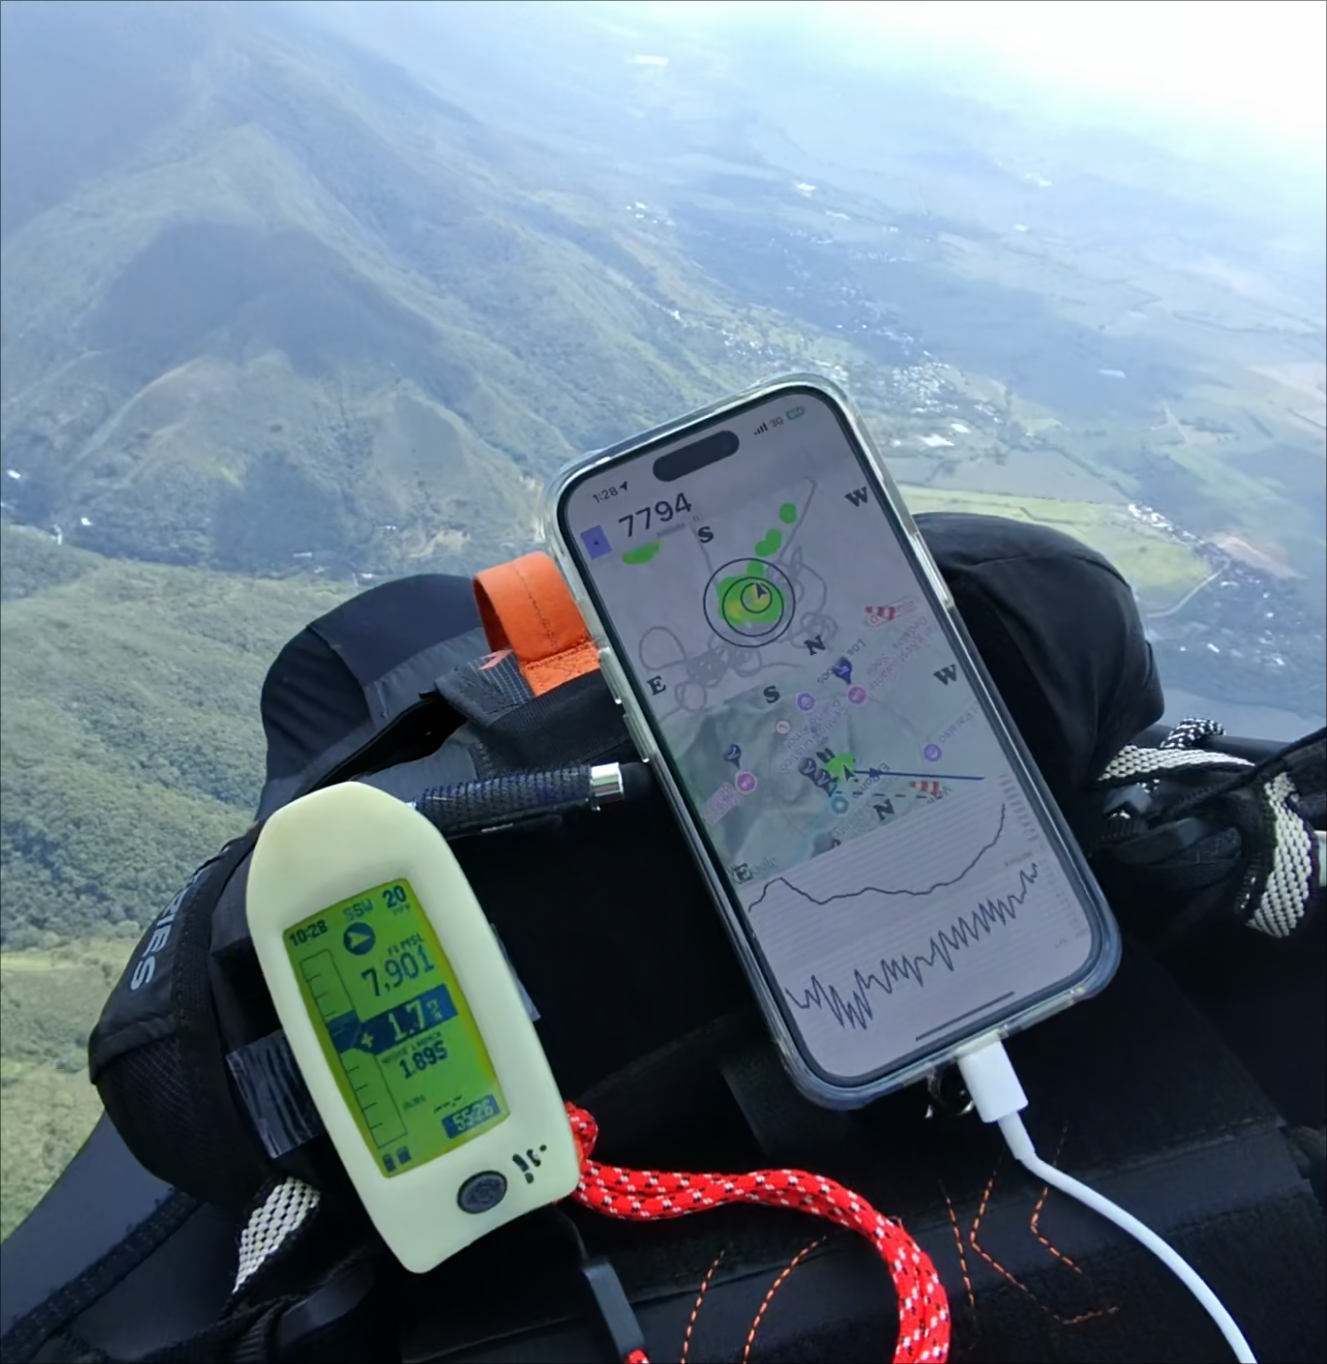
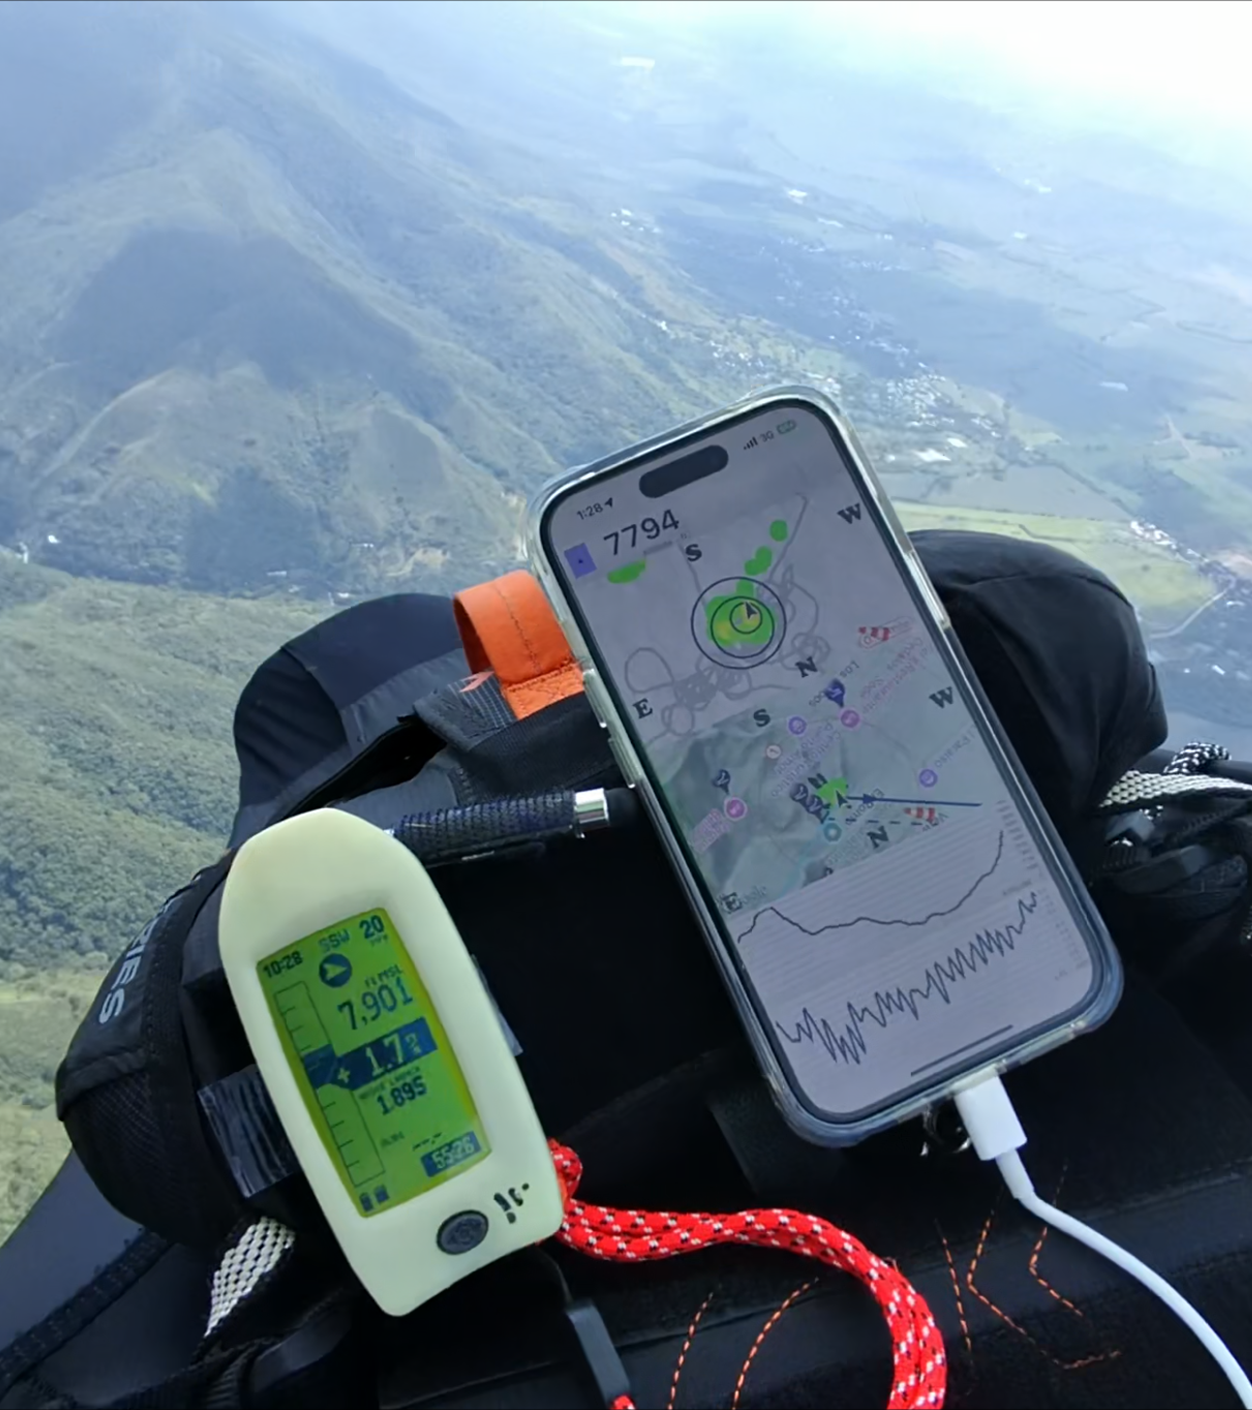
Update website pics
gallery images all same size
small updates to site text
added email link

diff --git a/website/src/components/gallery.tsx b/website/src/components/gallery.tsx
@@ -7,20 +7,20 @@ const images = [
     thumbnail: "/photos/leaf-with-logo.png",
   },
   {
-    original: "/photos/flight-deck.png",
-    thumbnail: "/photos/flight-deck.png",
+    original: "/photos/flight-deck-2.png",
+    thumbnail: "/photos/flight-deck-2.png",
+  },
+  {
+    original: "/photos/leaf-package.png",
+    thumbnail: "/photos/leaf-package.png",
+  },
+  {
+    original: "/photos/mounting-options.png",
+    thumbnail: "/photos/mounting-options.png",
   },
   {
     original: "/photos/riser.png",
     thumbnail: "/photos/riser.png",
-  },
-  {
-    original: "/photos/caddy.png",
-    thumbnail: "/photos/caddy.png",
-  },
-  {
-    original: "/photos/hardware.png",
-    thumbnail: "/photos/hardware.png",
   },
 
 ];
